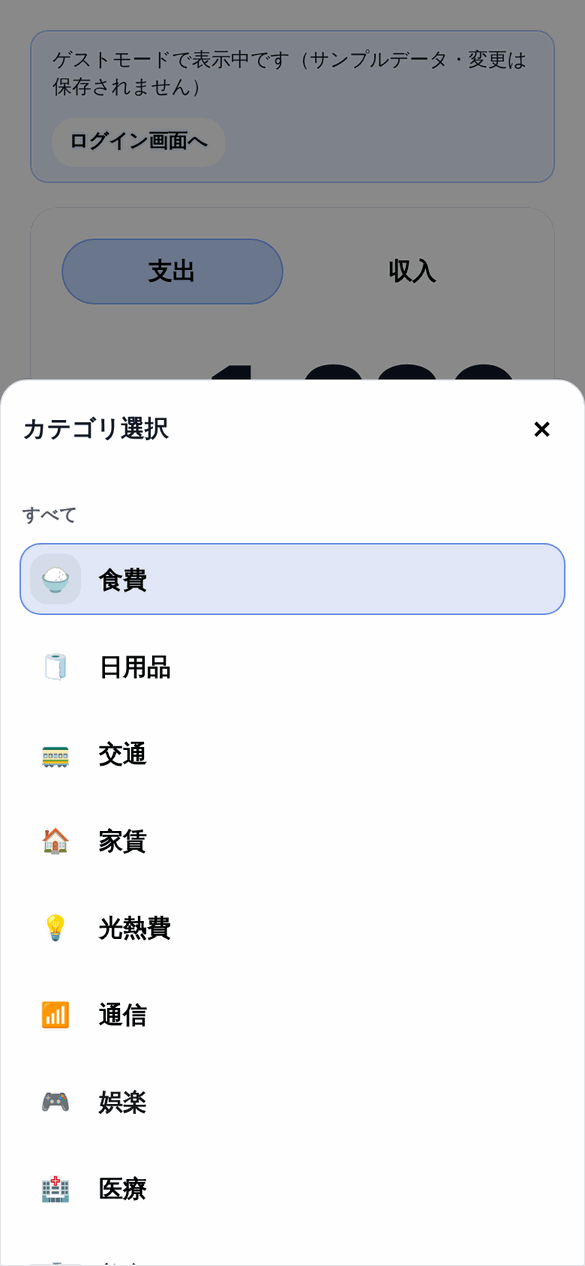
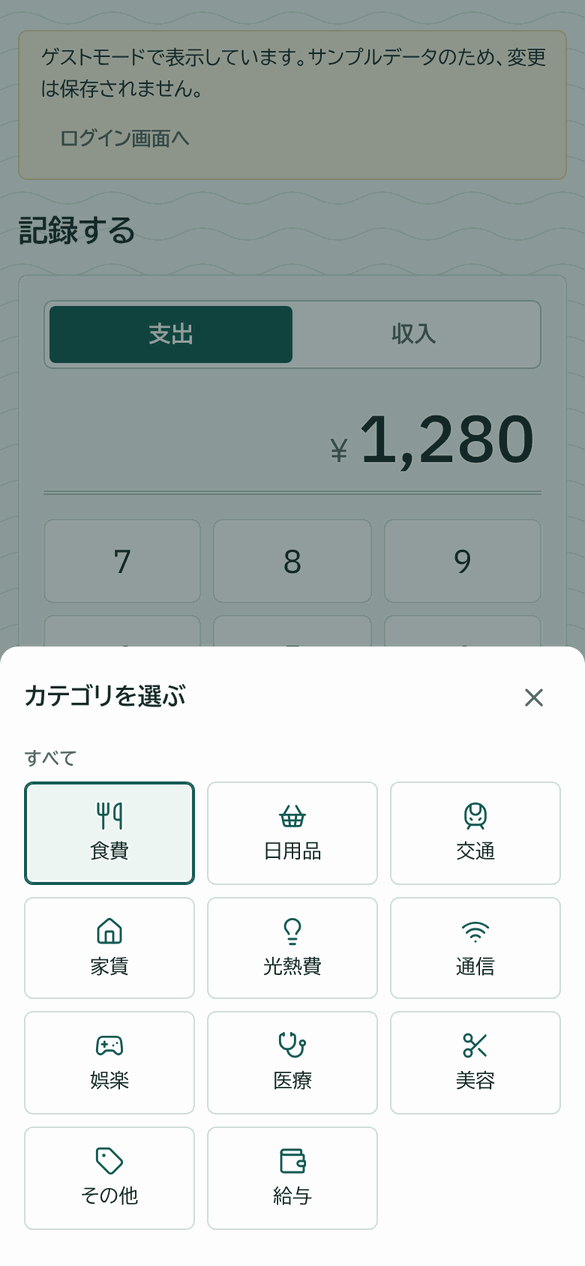
READMEを新しいデザインに合わせて更新し、スクリーンショットを撮り直し
Claude-Session: https://claude.ai/code/session_01LAmFCGEKoDBVA6vnKAuoa2

diff --git a/README.md b/README.md
@@ -1,49 +1,70 @@
 # 家計簿SPA
 
-React + Firebase で作成した家計簿アプリです。
-スマホファーストのUIで、Googleアカウントでログインしてデータをクラウド保存できます。
-ログインせずに **「ゲストで試す」** からサンプルデータで全機能を試すこともできます。
+収入と支出を記録して、毎月の残高を確かめられる家計簿アプリです。
+**銀行の通帳**をモチーフにデザインしていて、取引は通帳の記帳行のように「日付・摘要・支出・収入・残高」で並びます。
+Googleアカウントでログインしてクラウドに保存でき、ログインせずに **「ゲストで試す」** からサンプルデータで全機能を試すこともできます。
 
 **デモ：** [kakeibo-spa.vercel.app](https://kakeibo-spa.vercel.app)（ログイン画面の「ゲストで試す」からすぐ触れます）
 
 <p>
-  <img src="docs/screenshots/pc-dashboard.png" alt="ダッシュボード（PC）" width="64%">
-  <img src="docs/screenshots/sp-add.png" alt="取引追加（スマホ）" width="23%">
+  <img src="docs/screenshots/pc-transactions.png" alt="通帳（PC）" width="64%">
+  <img src="docs/screenshots/sp-dashboard.png" alt="ホーム（スマホ）" width="23%">
 </p>
 
 > スクリーンショットはゲストモード（サンプルデータ）で撮影しています。
 
 ---
 
+## デザインのコンセプト
+
+「お金の記録」と聞いて多くの人が思い浮かべる **通帳** を土台にしました。
+
+- **通帳ページ**：取引を古い順に並べ、行ごとに月初からの残高を表示します。数字は等幅の数字（tabular-nums）で桁をそろえています
+- **表紙**：サイドバーとログイン画面は、深い青緑に金の線を入れた通帳の表紙のデザインです
+- **地紋**：背景には通帳の地紋のような細い波線を薄く敷いています
+- **グラフは1色**：カテゴリ別の支出は円グラフをやめ、1色の横棒グラフにしました。色で区別するより、長さで比べるほうが読み取りやすいためです
+
+| 色 | 用途 |
+|---|---|
+| `#145B54` 青緑 | 表紙・主要なボタン |
+| `#E9F1EE` 淡いミント | 背景（通帳の地） |
+| `#CFDFD9` | 罫線 |
+| `#C8A44D` 金 | 表紙の線（装飾はここだけ） |
+| `#008A74` | グラフ |
+
+文字は、読みやすさを重視したユニバーサルデザインフォントの **BIZ UDPゴシック**、数字は **IBM Plex Sans** の等幅数字を使っています（どちらもアプリに同梱）。
+
+---
+
 ## 画面
 
 ### ログイン
-Googleでログインするか、ゲストモードで試せます。
+通帳の表紙をイメージした画面です。Googleでログインするか、ゲストモードで試せます。
 
 | PC | スマホ |
 |---|---|
 | <img src="docs/screenshots/pc-login.png" alt="ログイン画面（PC）" width="520"> | <img src="docs/screenshots/sp-login.png" alt="ログイン画面（スマホ）" width="220"> |
 
-### ダッシュボード
-今月の収入・支出・収支と、支出カテゴリの円グラフ／ランキングを表示します。
+### ホーム
+今月の残高を大きく表示し、支出の累計の推移とカテゴリ別の支出、最近の記録をまとめています。
 
 | PC | スマホ |
 |---|---|
-| <img src="docs/screenshots/pc-dashboard.png" alt="ダッシュボード（PC）" width="520"> | <img src="docs/screenshots/sp-dashboard.png" alt="ダッシュボード（スマホ）" width="220"> |
+| <img src="docs/screenshots/pc-dashboard.png" alt="ホーム（PC）" width="520"> | <img src="docs/screenshots/sp-dashboard.png" alt="ホーム（スマホ）" width="220"> |
 
-### 取引追加（電卓UI）
+### 通帳
+月ごとの取引を通帳の記帳行で表示します。行をクリック（スマホではタップ）すると、その場で編集・削除できます。
+
+| PC | スマホ |
+|---|---|
+| <img src="docs/screenshots/pc-transactions.png" alt="通帳（PC）" width="520"> | <img src="docs/screenshots/sp-transactions.png" alt="通帳（スマホ）" width="220"> |
+
+### 記録する
 テンキーで金額を入力し、カテゴリはボトムシートから選びます。最近使ったカテゴリが上に出ます。
 
-| 金額入力 | カテゴリ選択 |
-|---|---|
-| <img src="docs/screenshots/sp-add.png" alt="取引追加" width="220"> | <img src="docs/screenshots/sp-add-category.png" alt="カテゴリ選択シート" width="220"> |
-
-### 取引一覧
-月ごとに絞り込み、その場で編集・削除できます。
-
-| PC | スマホ |
-|---|---|
-| <img src="docs/screenshots/pc-transactions.png" alt="取引一覧（PC）" width="520"> | <img src="docs/screenshots/sp-transactions.png" alt="取引一覧（スマホ）" width="220"> |
+| PC | 金額入力（スマホ） | カテゴリ選択（スマホ） |
+|---|---|---|
+| <img src="docs/screenshots/pc-add.png" alt="記録する（PC）" width="400"> | <img src="docs/screenshots/sp-add.png" alt="記録する（スマホ）" width="200"> | <img src="docs/screenshots/sp-add-category.png" alt="カテゴリ選択（スマホ）" width="200"> |
 
 ---
 
@@ -52,9 +73,10 @@ Googleでログインするか、ゲストモードで試せます。
 | カテゴリ | 技術 |
 |---|---|
 | フロントエンド | React 19, React Router v7, Vite 7 |
-| スタイル | プレーンCSS（CSS変数によるテーマ管理・メディアクエリ） |
+| スタイル | プレーンCSS（CSS変数・メディアクエリ） |
 | グラフ | Recharts |
 | アイコン | lucide-react |
+| フォント | BIZ UDPゴシック、IBM Plex Sans（@fontsource で同梱） |
 | 認証 | Firebase Authentication（Googleログイン） |
 | DB | Cloud Firestore（セキュリティルールでユーザーごとにアクセス制御） |
 | デプロイ | Vercel |
@@ -63,30 +85,31 @@ Googleでログインするか、ゲストモードで試せます。
 
 ## 主な機能
 
-### ① 取引追加（電卓UI）
-- テンキー入力で金額を入力（`00` キー・1文字削除・クリアあり）
-- 支出 / 収入の切り替え
-- 日付・メモの入力
+### ① 記録する（電卓UI）
+- テンキー入力で金額を入力（`00` キー・1文字削除あり）
+- 支出 / 収入の切り替え、日付・メモの入力
 - カテゴリ選択はボトムシート形式。最近使ったカテゴリを上部に表示（localStorageに保存）
+- 記録すると内容を確認するメッセージを表示
 
-### ② ダッシュボード
-- 今月の収入・支出・収支サマリー
-- 支出カテゴリの円グラフ
-- 支出カテゴリのランキング（上位8件）
-- 定期取引を今月分としてまとめて反映するボタン
+### ② ホーム
+- 今月の残高（収入 − 支出）と収入・支出の合計
+- 支出の累計の推移グラフ（ホバーでその日までの累計を表示）
+- カテゴリ別の支出（上位5件＋その他）
+- 最近の記録5件
+- 定期取引を今月分としてまとめて記録するボタン
 
-### ③ 取引管理
-- 月フィルターで絞り込み（月ごとの収支サマリー付き）
-- インライン編集（カテゴリは一覧から選択 or 新規入力）
-- 削除（確認モーダルあり）
+### ③ 通帳
+- ◀▶で月を切り替え
+- 日付・摘要・支出・収入・残高（月初から）の記帳行と、月の合計
+- 行をクリックしてその場で編集（カテゴリは一覧から選択 or 新規入力）・削除（確認あり）
 
 ### ④ カテゴリ管理
-- カテゴリの追加・削除
+- カテゴリの追加・削除（カテゴリ名からアイコンを自動で割り当て）
 - 初回ログイン時にデフォルトカテゴリ（食費・日用品・交通 など10件）を自動登録
 
 ### ⑤ 定期取引
-- 家賃・通信費などの固定費／給与をテンプレとして登録
-- ダッシュボードのボタンで当月1日付の取引として一括反映
+- 家賃・通信費などの固定費／給与をテンプレートとして登録
+- ホームのボタンで当月1日付の取引としてまとめて記録
 - 同じ月に何度押しても二重登録されない
 
 ### ⑥ ゲストモード
@@ -107,7 +130,7 @@ src/
 │   ├── dashboard/    # ダッシュボード
 │   ├── transactions/ # 取引の追加・一覧・TransactionsContext
 │   └── settings/     # カテゴリ・定期取引（useCategories, useRecurring）
-├── shared/hooks/   # 汎用Hook（useLocalStorage）
+├── shared/         # 汎用Hook（useLocalStorage）・表示用の関数・カテゴリアイコン
 └── lib/            # Firebase初期化・日付ユーティリティ
 ```
 
@@ -148,10 +171,15 @@ match /users/{uid}/transactions/{id} {
 `AuthContext` でログイン状態をグローバルに管理し、`RequireAuth` コンポーネントで未ログイン時はログイン画面を表示するルートガードを実装しています。
 
 ### スマホファーストUI
-- PC：左サイドバーナビ
-- スマホ（768px以下）：画面下部のボトムナビゲーション
+- PC：左に通帳の表紙のようなサイドバー、通帳ページは5列（支出・収入・残高を別の列）
+- スマホ（768px以下）：画面下部のタブ。通帳ページは「日付・摘要・金額（＋/−付き）」の3列にまとめ、行をタップして編集
 
-CSS変数とメディアクエリで両対応しています。
+色・余白・角丸はCSS変数にまとめ、メディアクエリで両対応しています。
+
+### アクセシビリティ
+- 通帳ページは `role="table"` などで表として読み上げられるようにしています
+- アイコンだけのボタンには `aria-label` を付け、キーボード操作時はフォーカスの枠を表示します
+- 動きを減らす設定（prefers-reduced-motion）の環境ではアニメーションを止めます
 
 ### 設定がなくても落ちない作り
 - Firebase の環境変数が未設定のときは、Googleログインを無効にしてゲストモードだけ使えるようにしています
